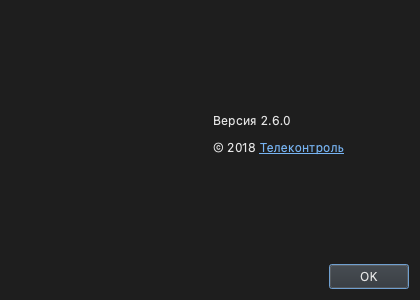
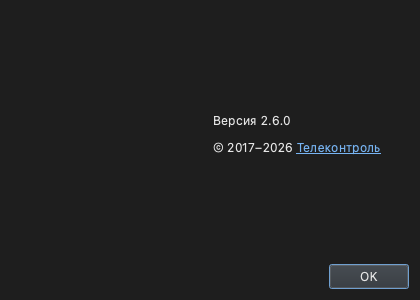
legal: name Telecontrol as the copyright holder, and assert it (788)
Until now nothing in this repository asserted copyright in the client at all,
so the GPL section 7 exception drafted yesterday named nobody and therefore
granted nothing. It now names Telecontrol, and the notice exists in three
places a recipient actually reads:

  client/COPYRIGHT          the notice covering the work, with the standard
                            GPL notice block and a pointer to the exception
  client/README.md          Copyright (C) 2017-2026 Telecontrol
  the About dialog          the same range, rendered

Year range is 2017-2026: this repository's first commit is 2017-08-24
("Initial.") and it is still changed daily. The About dialog said a bare 2018,
understating it at both ends; it now carries the range, deliberately NOT
derived from the build clock, because an old binary rebuilt next year would
otherwise claim a year in which nothing was authored.

THE DRAFT MARKERS STAY ON BOTH LICENCE FILES. Filling in a blank is not
granting a permission: adoption is deleting the marker block and that is the
copyright holder's act, not a drafting step. It is also what opens the publish
gate, so nothing here changes what the tool will do -- verified, --confirm
still exits 1.

WHAT I DID NOT DO, AND CORRECTED MYSELF ON. The exception's note A previously
said to fill in the `<year>` and `<name of author>` placeholders in
client/LICENSE. That was wrong: those are the GPL's "How to Apply These Terms"
[…]

Changed region(s): [[0.5881, 0.48, 0.9286, 0.54]]

diff --git a/modules/about/qt/about_dialog.cpp b/modules/about/qt/about_dialog.cpp
@@ -6,8 +6,8 @@
 #include "resources/common_resources.h"
 #include "ui/qt/client_utils_qt.h"
 
-#include <QIcon>
 #include "ui_about_dialog.h"
+#include <QIcon>
 
 #include <QApplication>
 #include <QMessageBox>
@@ -23,12 +23,19 @@ class AboutDialog : public QDialog {
     // UI that should show what the app *is*, and it is deliberately not routed
     // through LoadPixmap: that path tints to a single palette colour, which
     // would flatten a coloured brand asset (iconography.md §5.4).
-    ui.icon->setPixmap(QIcon{QStringLiteral(":/icons/app-mark.svg")}.pixmap(64,
-                                                                           64));
+    ui.icon->setPixmap(
+        QIcon{QStringLiteral(":/icons/app-mark.svg")}.pixmap(64, 64));
 
     auto version = tr("Version %1").arg(PROJECT_VERSION_DOTTED_STRING);
     auto organization_name = tr("Telecontrol");
-    const int copyright_year = 2018;
+    // The range this work is claimed over, not the year the dialog was
+    // written. It ran as a bare 2018 until 2026-09-20, which understated it at
+    // both ends: this repository's first commit is 2017-08-24 and it is still
+    // being changed daily. Deliberately NOT derived from the build clock -- an
+    // old binary rebuilt next year would then claim a year in which nothing
+    // was authored. Widen it by hand when the work is revised, and keep it in
+    // step with COPYRIGHT and clause 1 of LICENSE-EXCEPTION.txt.
+    const char* copyright_years = "2017\u20132026";
 
     ui.label->setText(
         QString{"<html><head/><body>"
@@ -38,7 +45,7 @@ class AboutDialog : public QDialog {
                 "</body></html>"}
             .arg(QApplication::applicationDisplayName())
             .arg(version)
-            .arg(copyright_year)
+            .arg(QString::fromUtf8(copyright_years))
             .arg(QApplication::organizationDomain())
             .arg(organization_name)
             .arg(PROJECT_VERSION_DOTTED_STRING));

diff --git a/README.md b/README.md
@@ -253,8 +253,11 @@ that is exploitable should not be public before there is a fix to upgrade to.
 
 ## License
 
-GPL-3.0 — see [LICENSE](LICENSE). Third-party asset notices are in
-[NOTICE](NOTICE).
+Copyright (C) 2017-2026 Telecontrol.
+
+GPL-3.0 — see [LICENSE](LICENSE) for the licence text and
+[COPYRIGHT](COPYRIGHT) for the notice that covers this work. Third-party asset
+notices are in [NOTICE](NOTICE).
 
 The client draws schematic displays by loading a separate, proprietary shared
 library at run time — the schematic display runtime — which is not part of this
